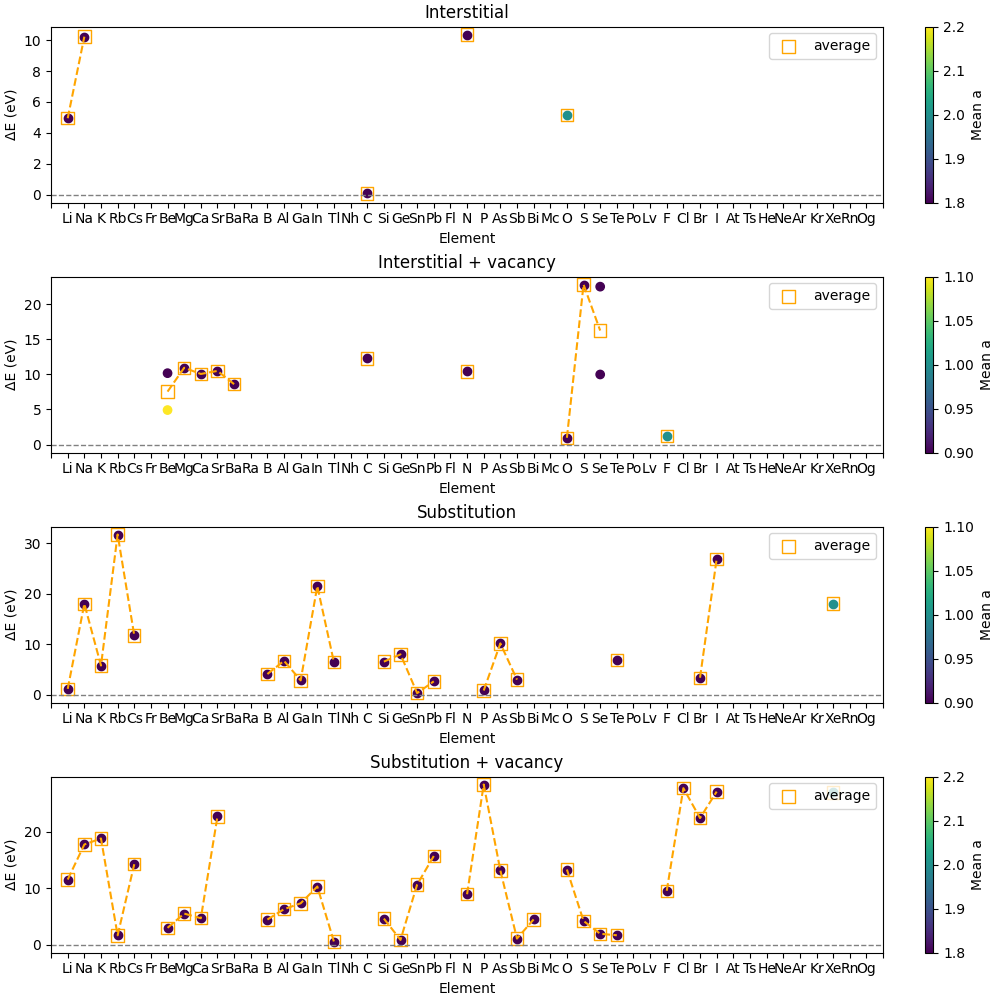
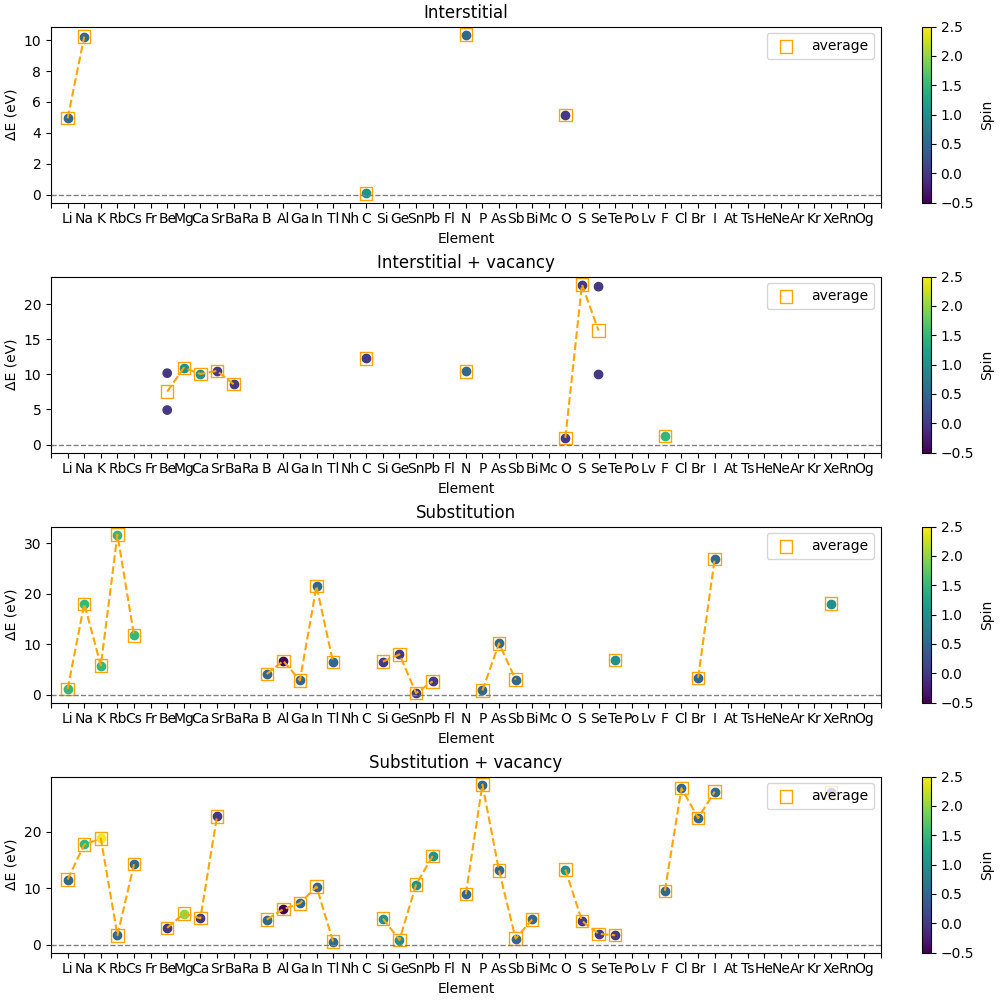
Single_defect plots spin in color-scale

diff --git a/src/mdse/visualizeDB/vis_plots.py b/src/mdse/visualizeDB/vis_plots.py
@@ -79,8 +79,8 @@ def single_defect_plot(plot_name, plot_data, sim_data):
     all_elements = sorted(s_elements+p_elements)
 
     sorted_data = {"interstitial" : {"element" : [], "energy" : [], "vacancy" : [],
-                                     "avg_a": []},
-     "substitution" : {"element" : [], "energy" : [], "vacancy" : [], "avg_a" : []}}
+                                     "spin": []},
+     "substitution" : {"element" : [], "energy" : [], "vacancy" : [], "spin" : []}}
     logger.debug("Start to loop trough simulations")
 
     how_many_data_points = 0
@@ -105,7 +105,7 @@ def single_defect_plot(plot_name, plot_data, sim_data):
                 defect = sorted_data.get(cat2)
                 defect["element"].append(el2)
                 defect["energy"].append(sim.get("delta_E"))
-                defect["avg_a"].append(sim.get("avg_a"))
+                defect["spin"].append(sim.get("spin"))
                 defect["vacancy"].append(True)
                 how_many_data_points+=1
                 continue
@@ -114,7 +114,7 @@ def single_defect_plot(plot_name, plot_data, sim_data):
                 defect = sorted_data.get(cat1)
                 defect["element"].append(el1)
                 defect["energy"].append(sim.get("delta_E"))
-                defect["avg_a"].append(sim.get("avg_a"))
+                defect["spin"].append(sim.get("spin"))
                 defect["vacancy"].append(True)
                 how_many_data_points+=1
                 continue
@@ -124,7 +124,7 @@ def single_defect_plot(plot_name, plot_data, sim_data):
             defect = sorted_data.get(cat)
             defect["element"].append(el)
             defect["energy"].append(sim.get("delta_E"))
-            defect["avg_a"].append(sim.get("avg_a"))
+            defect["spin"].append(sim.get("spin"))
             defect["vacancy"].append(False)
             how_many_data_points+=1
             continue
@@ -190,10 +190,10 @@ def single_defect_plot(plot_name, plot_data, sim_data):
             continue
 
         energies = [candidates["energy"][i] for i in idxs]
-        avg_a = [candidates["avg_a"][i] for i in idxs]
+        spins = [candidates["spin"][i] for i in idxs]
         lenght = len(energies)
 
-        sc1 = ax1.scatter([value]*lenght, energies, c = avg_a)
+        sc1 = ax1.scatter([value]*lenght, energies, c = spins, vmin = -0.5, vmax=2.5)
 
         if avg:
             avg_temp = plot_avg(ax1,value,energies)
@@ -204,7 +204,7 @@ def single_defect_plot(plot_name, plot_data, sim_data):
                 first_label = False
 
     if sc1 is not None:
-        fig.colorbar(sc1,ax=ax1, label = "Mean a")
+        fig.colorbar(sc1,ax=ax1, label = "Spin")
     if avg and avg_x:
         ax1.plot(avg_x,avg_y, linestyle = "--", color="orange")
     logger.debug("Done generarating first subplot")
@@ -237,10 +237,10 @@ def single_defect_plot(plot_name, plot_data, sim_data):
             continue
 
         energies = [candidates["energy"][i] for i in idxs]
-        avg_a = [candidates["avg_a"][i] for i in idxs]
+        spins = [candidates["spin"][i] for i in idxs]
         lenght = len(energies)
 
-        sc2 = ax2.scatter([value]*lenght, energies, c = avg_a)
+        sc2 = ax2.scatter([value]*lenght, energies, c = spins, vmin = -0.5, vmax=2.5)
 
         if avg:
             avg_temp = plot_avg(ax2,value,energies)
@@ -251,7 +251,7 @@ def single_defect_plot(plot_name, plot_data, sim_data):
                 first_label = False
 
     if sc2 is not None:
-        fig.colorbar(sc2,ax=ax2, label = "Mean a")
+        fig.colorbar(sc2,ax=ax2, label = "Spin")
     if avg and avg_x:
         ax2.plot(avg_x,avg_y, linestyle = "--", color="orange")
     logger.debug("Done generating second subplot")
@@ -284,10 +284,10 @@ def single_defect_plot(plot_name, plot_data, sim_data):
             continue
 
         energies = [candidates["energy"][i] for i in idxs]
-        avg_a = [candidates["avg_a"][i] for i in idxs]
+        spins = [candidates["spin"][i] for i in idxs]
         lenght = len(energies)
 
-        sc3 = ax3.scatter([value]*lenght, energies, c = avg_a)
+        sc3 = ax3.scatter([value]*lenght, energies, c = spins, vmin = -0.5, vmax=2.5)
 
         if avg:
             avg_temp = plot_avg(ax3,value,energies)
@@ -298,7 +298,7 @@ def single_defect_plot(plot_name, plot_data, sim_data):
                 first_label = False
 
     if sc3 is not None:
-        fig.colorbar(sc3,ax=ax3, label = "Mean a")
+        fig.colorbar(sc3,ax=ax3, label = "Spin")
     if avg and avg_x:
         ax3.plot(avg_x,avg_y, linestyle = "--", color="orange")
     logger.debug("Done generating third subplot")
@@ -331,10 +331,10 @@ def single_defect_plot(plot_name, plot_data, sim_data):
             continue
 
         energies = [candidates["energy"][i] for i in idxs]
-        avg_a = [candidates["avg_a"][i] for i in idxs]
+        spins = [candidates["spin"][i] for i in idxs]
         lenght = len(energies)
 
-        sc4 = ax4.scatter([value]*lenght, energies, c = avg_a)
+        sc4 = ax4.scatter([value]*lenght, energies, c = spins, vmin = -0.5, vmax=2.5)
 
         if avg:
             avg_temp = plot_avg(ax4,value,energies)
@@ -345,7 +345,7 @@ def single_defect_plot(plot_name, plot_data, sim_data):
                 first_label = False
 
     if sc4 is not None:
-        fig.colorbar(sc4,ax=ax4, label = "Mean a")
+        fig.colorbar(sc4,ax=ax4, label = "Spin")
     if avg and avg_x:
         ax4.plot(avg_x,avg_y, linestyle = "--", color="orange")
     logger.debug("Done generating forth subplot")

diff --git a/src/mdse/visualizeDB/read_dataDB.py b/src/mdse/visualizeDB/read_dataDB.py
@@ -81,16 +81,17 @@ def read_data(config_data):
 
             dft_entry = DFT_data.find_one({"defect_key" : def_id})
             #Will get multiple entries, because diferent spins.
+            #Compare Mace to multiple DFT-spins
+
         
             if dft_entry:
                 # Extract fields we need
                 mace_entry["DFT_defect_formation_energy"] = dft_entry.get("defect_formation_energy")
                 mace_entry["DefectInfo"] = {"defect_type" : dft_entry.get("defect_type")}
-                mace_entry["DefectInfo"]["spin"] = dft_entry.get("spin")
+                mace_entry["spin"] = dft_entry.get("spin")
             else:
                 print("SOMETINH BAD HAPPENED!")
                 
-        temp = True
         for entry in all_mace_entries:
             #Calculate energy diff, and fix format
             entry["delta_E"] = abs(entry["DFT_defect_formation_energy"] - entry["formation_energy"])
@@ -99,12 +100,6 @@ def read_data(config_data):
 
             entry["DefectInfo"]["defect_size"] = get_def_size(def_type)
             entry["DefectInfo"]["vacancy"] = get_vacancy(def_type)
-            if temp:
-                entry["avg_a"] = 1
-                temp = False
-            else:
-                entry["avg_a"] = 2
-                temp = True
 
         print(f"Found {len(all_mace_entries)} entries")
         return all_mace_entries
